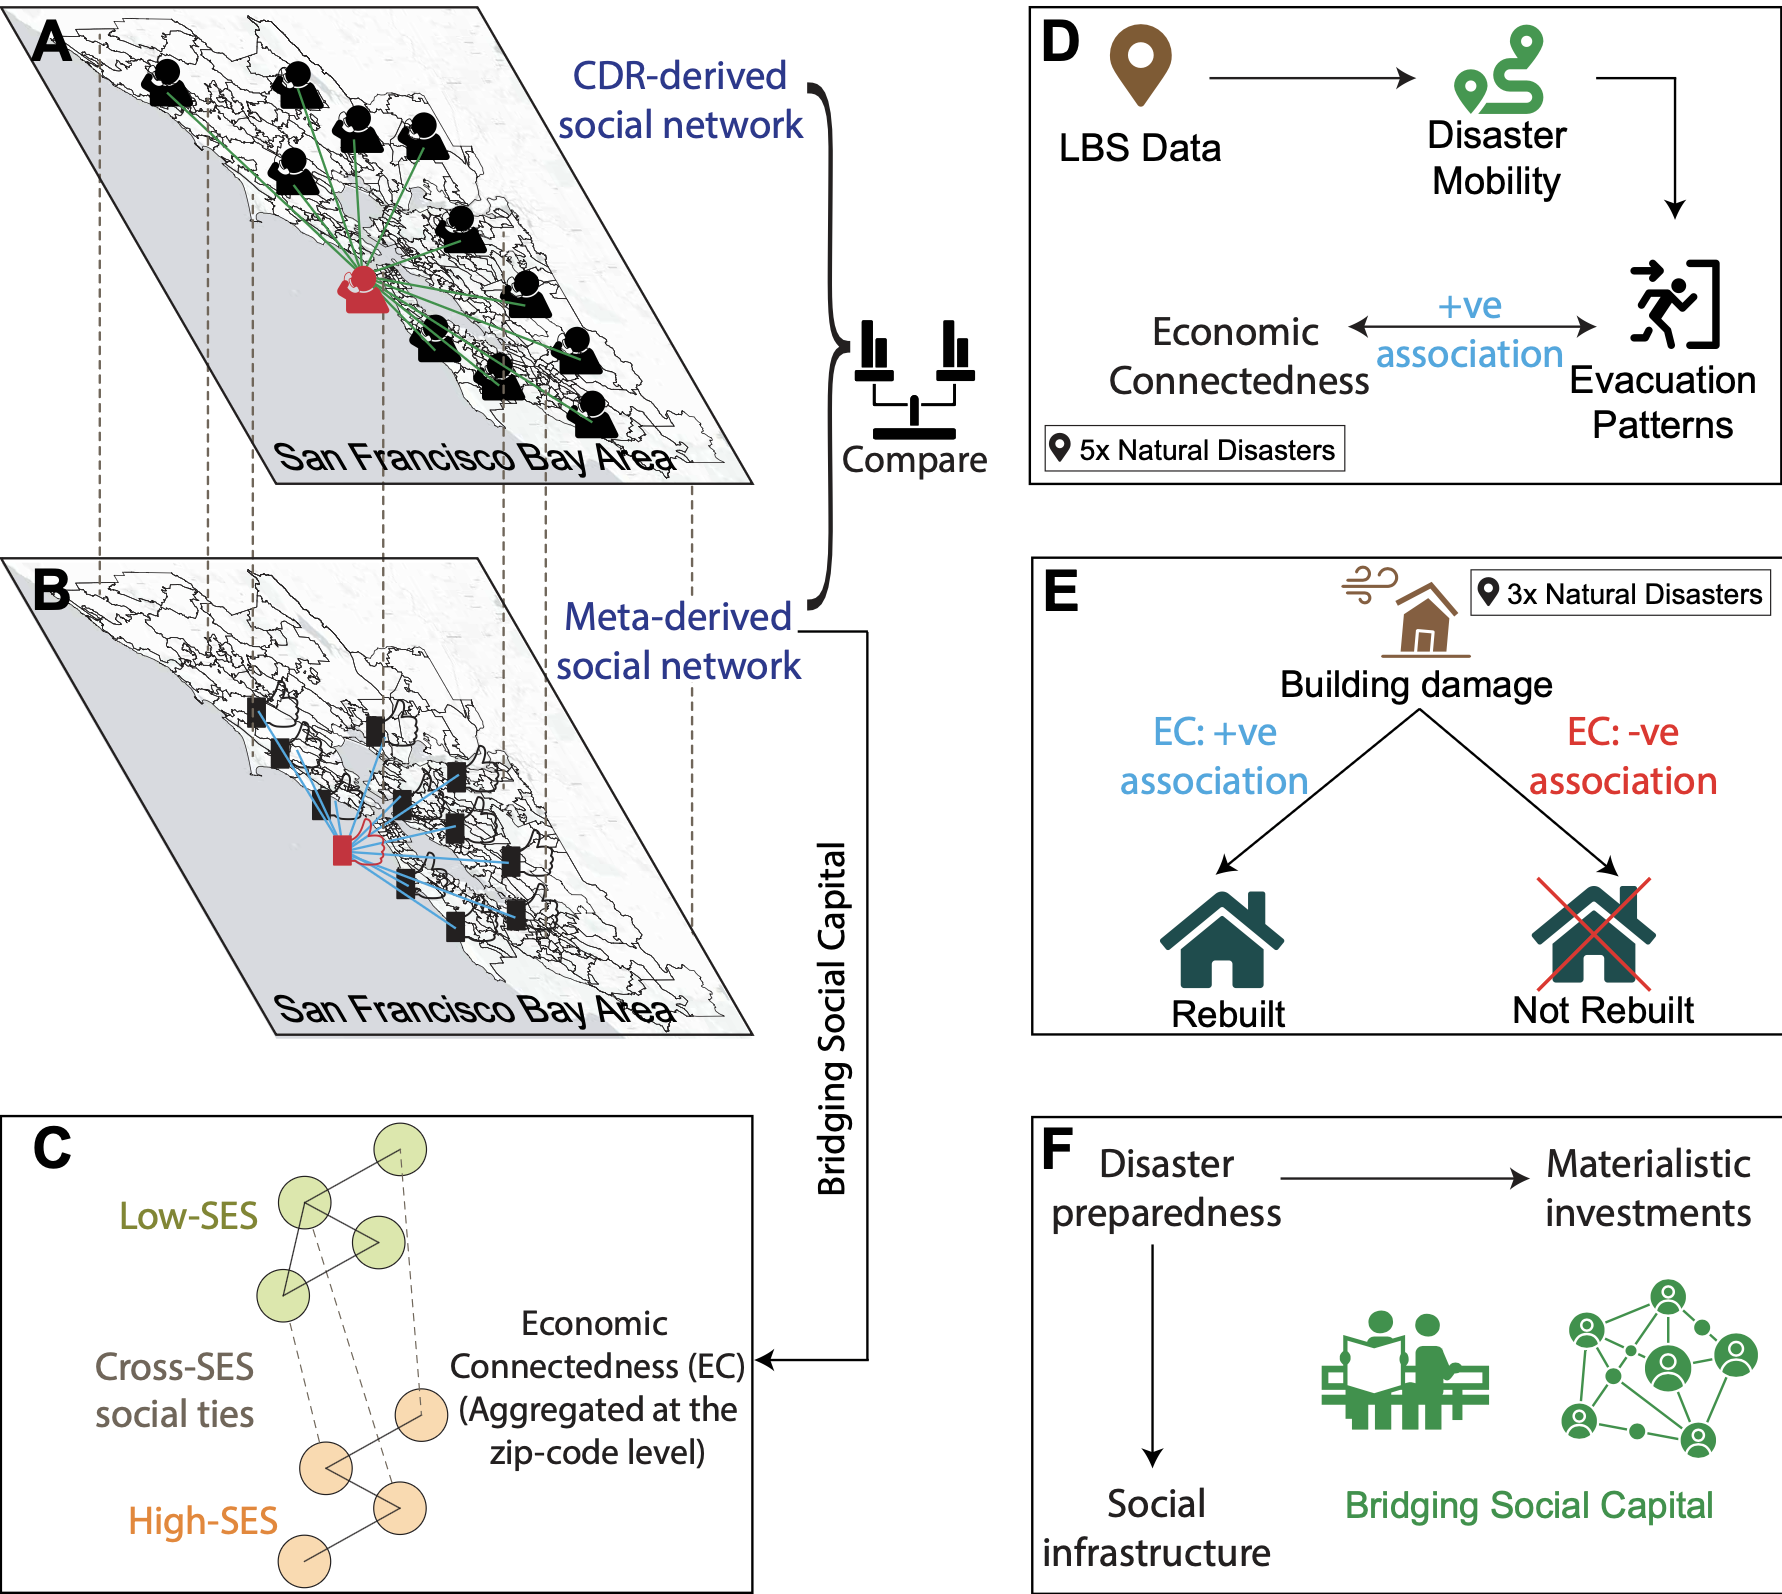
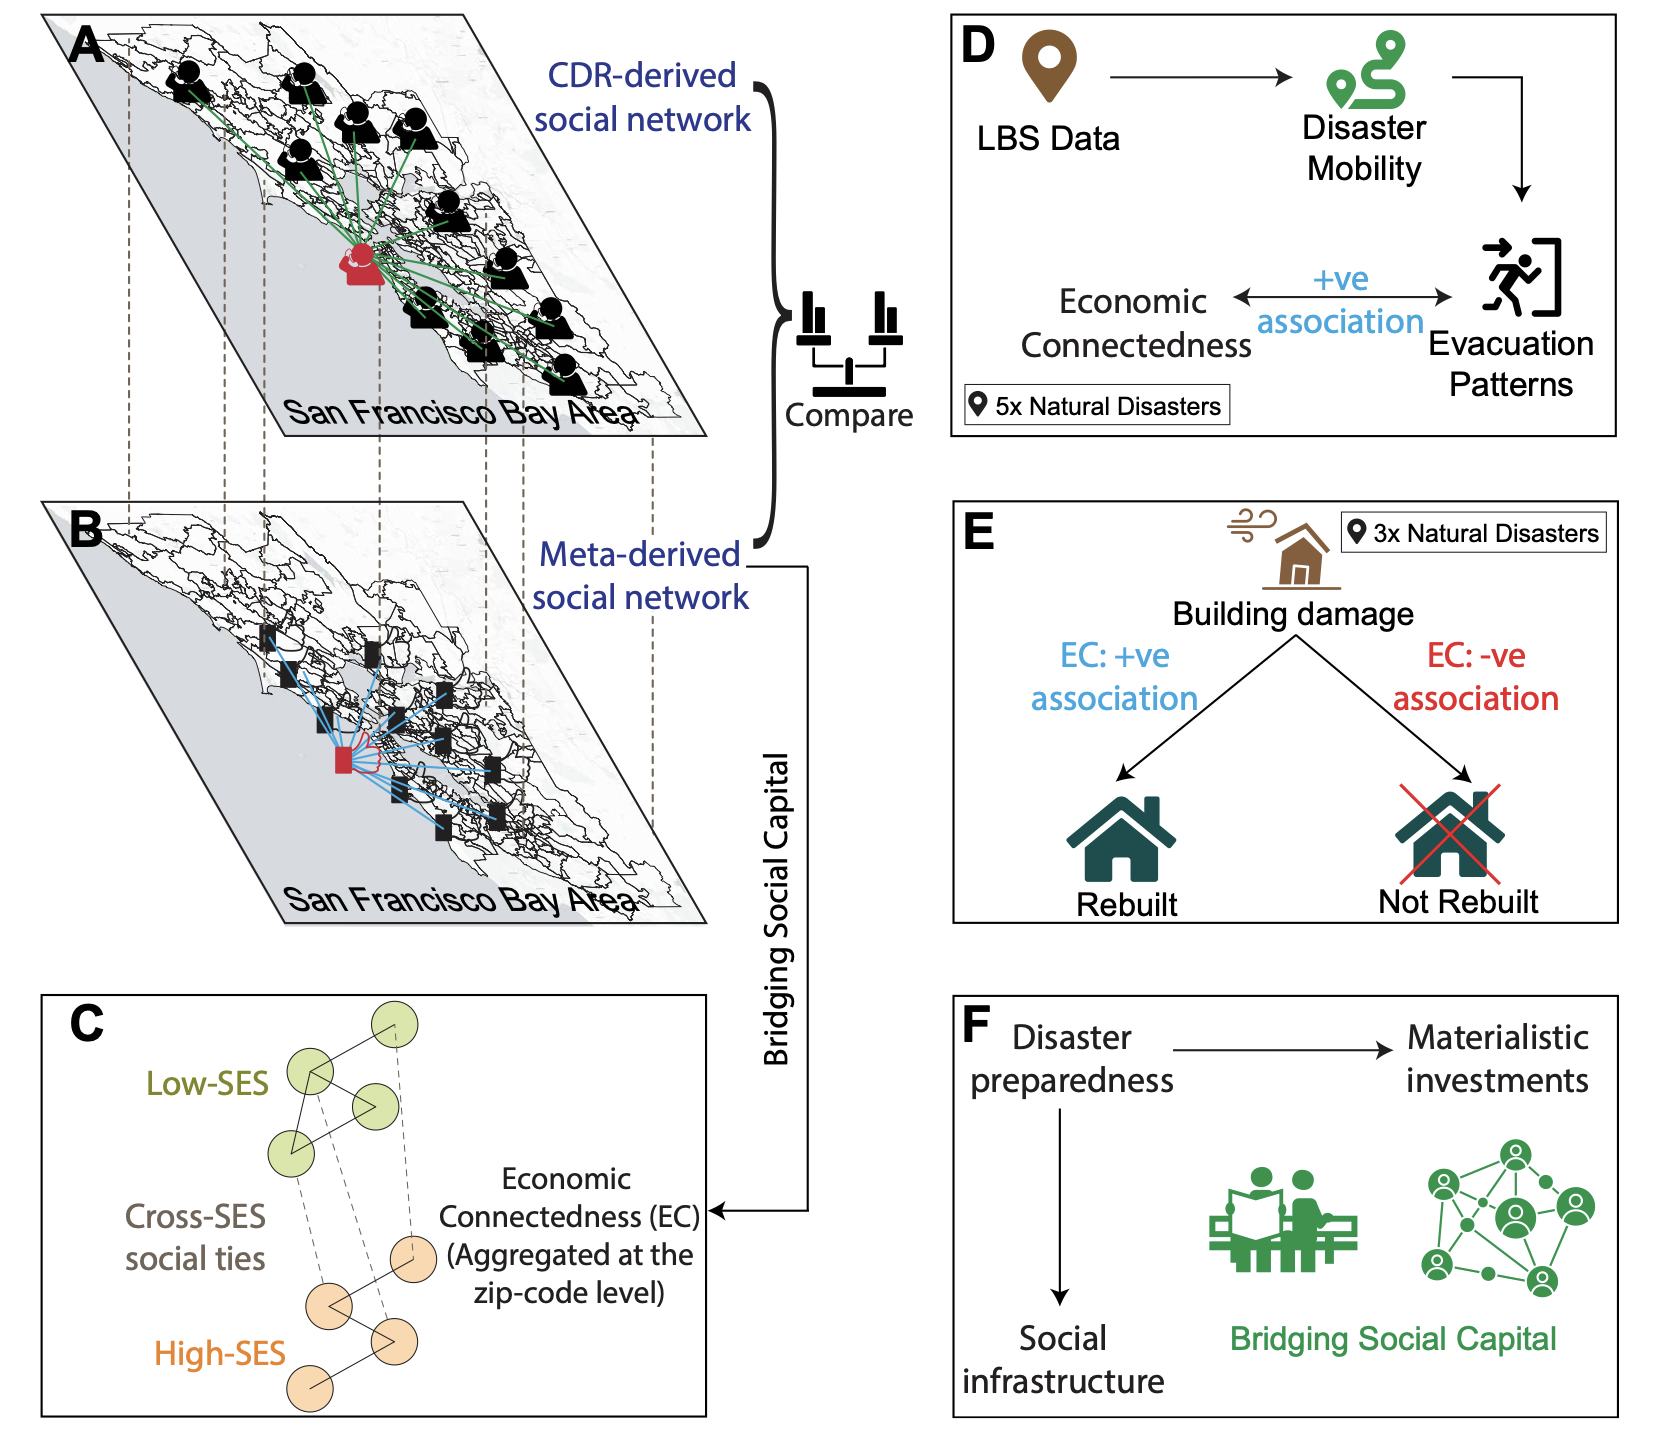
blog push

diff --git a/blog.html b/blog.html
@@ -17,11 +17,11 @@
             <i>3 Feb 2026</i>
         </li>
         <li class="hidden">
-            <a href="blog-av-network-effects.html">
-                <b>Network Effects of AVs on Mobility on Demand</b>
+            <a href="blog-soccapdisastermob.html">
+                <b>Social media-based measures of social capital attenuate economic disparities in extreme weather evacuations and recovery</b>
             </a>
             <br>
-            <i>28 Jan 2026</i>
+            <i>18 Sep 2026</i>
         </li>
     </ul>
 
